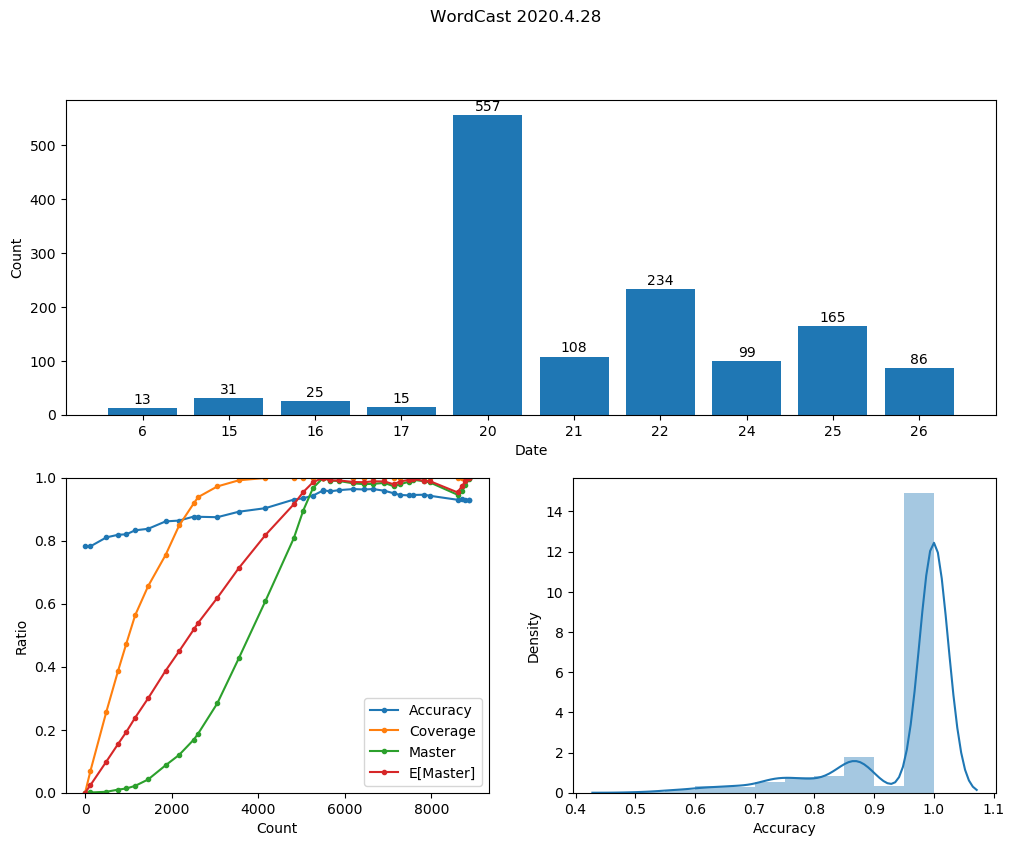
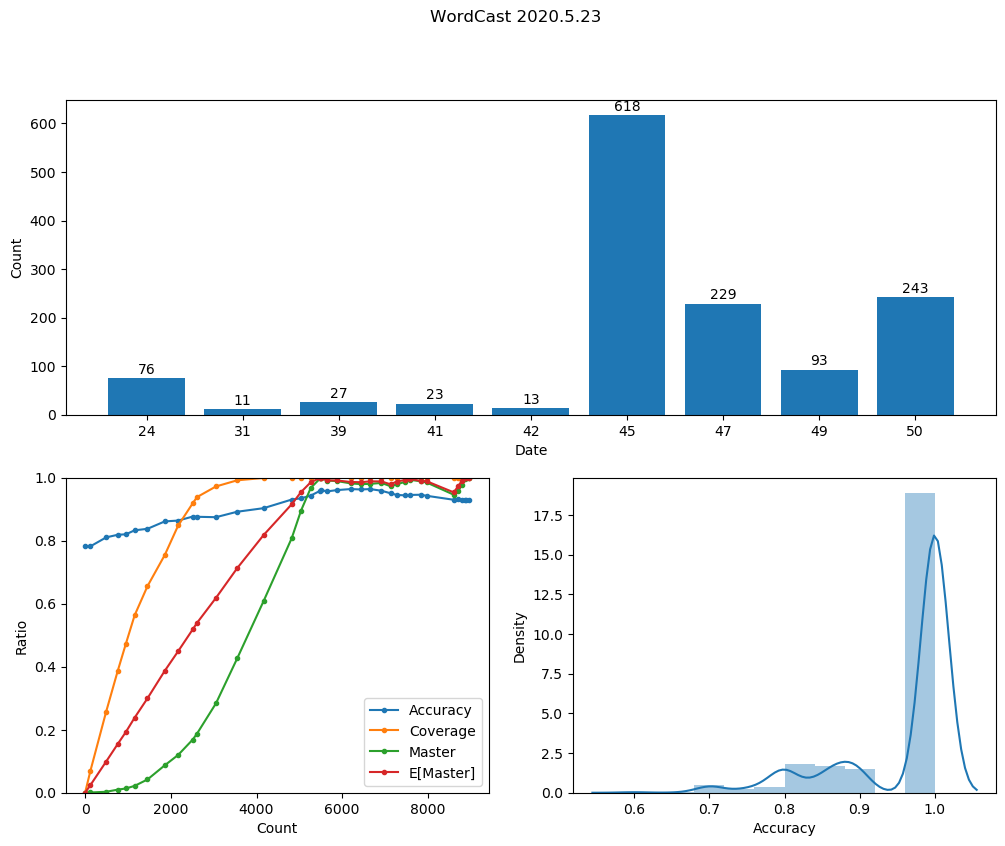
5.23

diff --git a/Src/NCEEHelper/ImportanceSampler.cpp b/Src/NCEEHelper/ImportanceSampler.cpp
@@ -339,9 +339,14 @@ public:
     }
     double getAcc(GUID guid) override {
         const auto& his = mHistory[guid];
-        if(his.testCnt)
-            return static_cast<double>(his.passCnt) / his.testCnt;
-        else
+        if(his.testCnt) {
+            if(his.testCnt <= 10)
+                return static_cast<double>(his.passCnt) / his.testCnt;
+            double res = 0.0;
+            for(uint32_t i = 0; i < 10; ++i)
+                res += (((his.lastHistory >> i) & 1) ? 0.1 : 0.0);
+            return res;
+        } else
             return -1.0;
     }
 };

diff --git a/Note/Physics/物理概念与二级结论.md b/Note/Physics/物理概念与二级结论.md
@@ -15,13 +15,15 @@
 + 静电力常量k:9.0×109 N·m^2/C^2
 + 1u=931.5MeV=1.66*10^-27kg
 # 常见单位量纲
-+ N
-+ T
-+ C
-+ Pa
-+ Wb
-+ J
-+ F
++ N=kg*m/s^2
++ T=Kg/(A*s^2)
++ C=A*s
++ Pa=kg/m*s^2
++ Wb=Kg* m^2/(A*s^2)
++ J=kg*m^2/s^2
++ F=s^4* A^2/m^2*kg
+# 矢量物理量
+速度、加速度、动量、电场强度、磁感应强度、位移
 # 受力平衡
 + 定一力与另一力的方向：垂直最小
 + 定一力与二力夹角：圆上弦
@@ -45,6 +47,7 @@
 + 两个物体恰好分开时，相互作用力为零，加速度和速度相等
 + 超重：a方向竖直向上；失重：a方向竖直向下
 + 注意使用惯性力
++ 伽利略相对运动
 # 抛体运动
 + 速度偏转角的正切值为位移偏转角正切值二倍
 + 斜面平抛：
@@ -67,8 +70,10 @@
 + 势能Ep=-GMm/R
 ## 近地卫星
 + R=6.4*10^6km，v=7.9km/s,T=84.6min
-+ 黄金代换式GM=gR^2
 + 行星密度ρ=3π/GT^2
+## 与g有关的公式
++ 黄金代换式GM=gR^2
+## 通用公式
 ## 地球上的物体
 + 注意万有引力提供重力和向心力
 ## 地球相关
@@ -102,6 +107,7 @@
 + 粒子通过正交的匀强电场磁场，qvB=Eq,v=E/B
 + 电势能变化看电场力做功（一定要画电场线和等势面）
 + 匀强电场中平行四边形对角的电势和相等
++ 电场加速后进入磁场荷质比q/m=v/BR=2U/(BR)^2
 # 电流磁效应、电磁感应
 + 安培力做功等于总电阻焦耳热
 + q=ΔΦ/R（含电容时不能这么算，看电容的ΔQ）
@@ -112,6 +118,8 @@
 + 矩形线框等高度下落，磁场越下面，矩形线框落地速度越小
 + 两电流相互平行时无转动趋势，同向电流互相吸引，反向电流互相排斥
 + 两电流不平行时，有转动到相互平行且电流方向相同的趋势。
++ 等效重力场（关注能量守恒与对称点）
++ 直导线旁距离a处磁感应强度：B=μ0I/(2πa)
 ## 发电机
 + 直流永磁发电机电枢单个线圈转至某一位置时其感应电动势为0，感应电流也为0，此时线圈平面与磁感线方向垂直，这个面就称为中性面。
 + 注意乘以n以及线圈初始位置
@@ -120,6 +128,7 @@
 ## 霍尔效应
 ## 质谱仪
 ## 回旋加速器
+## 电磁流量计
 # 稳恒电流、变压器
 + 串反并同
 + 等效电压源：电压等于含源电路两端断路电压，内阻等于两端电阻
@@ -134,6 +143,7 @@
 + 等势点可以连接或断开
 + 含电动机功率P=UI,热功率P=I^2R
 + ΔU，ΔI的判断：
++ 容抗Xc = 1/（ωC）= 1/（2πfC），感抗XL= 2πfL=ωL
 # 电容器
 + 平行板电容器C=εS/4πkd
 + Q不变，E=4πkQ/εS，与d无关
@@ -147,7 +157,7 @@
 + 注意人船模型中人的速度是相对速度还是绝对速度
 + 注意有墙壁时水平方向动量不一定守恒
 + m1碰静止m2:m1>>m2:v1=v0,v2=2v0,m1<< m2:v1=-v0,v2=0
-+ 质心运动守恒
++ 质心运动定律
 + 两体完全弹性碰撞前后相对速度大小不变。
 # 能量
 + 弹性势能算入机械能，但要看研究对象是否包括弹簧
@@ -182,6 +192,10 @@
 + LC振荡电路电与磁此增彼减，互为正余弦，可用电容器能量E=1/2CU^2,电感能量E=1/2LI^2理解
 + 在一个周期内,物体运动的路程是4A,半个周期内,物体的路程是2A,但在四分之一个周期内运动的路程不一定是A
 + 每一个质点的起振方向都与波源的起振方向相同。
++ 干涉加强区始终加强，减弱区始终减弱。
++ 加强区的振幅A=A1+A2，减弱区的振幅A=|A1-A2|。
++ 相距半波长的奇数倍的两质点，振动情况完全相反；相距半波长的偶数倍的两质点，振动情况完全相同。
++ 电磁波在介质中的传播速度跟介质和频率有关；而机械波在介质中的传播速度只跟介质有关。
 # 近代物理初步
 + α射线：高速氦核，0.1c，贯穿本领小，电离本领大
 + β射线：高速电子流，0.9c，贯穿本领中，电离本领中
